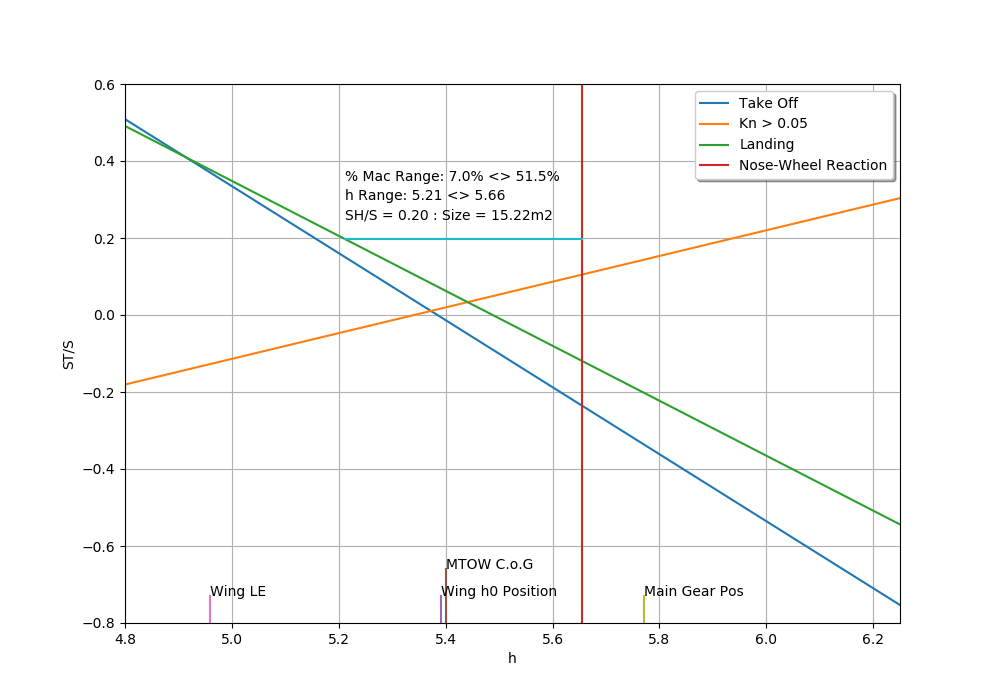
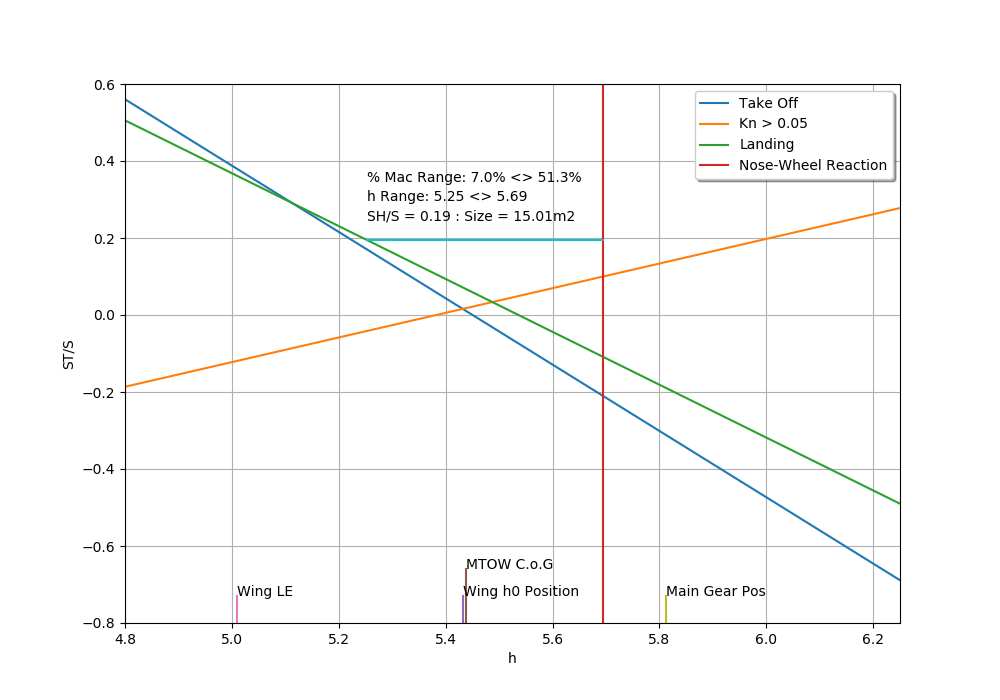
Change Excel references and draw new plot

diff --git a/scissorplot.py b/scissorplot.py
@@ -52,9 +52,9 @@ def myfloor(x, base):
 
 
 # Key Aircraft Params
-c_bar = cad_file['Interface']['B53'].value
+c_bar = cad_file['Interface']['B66'].value
 maxthrust = cad_file['Interface']['F28'].value * 2  # N @ takoff
-vto = 58.3  # m/s
+vto = 59.9  # m/s
 cthrust = maxthrust / qS(vto)
 cm0 = cad_file['Interface']['F29'].value
 cl_to = cad_file['Interface']['F30'].value
@@ -63,11 +63,11 @@ cm0_ld = cad_file['Interface']['F33'].value
 clt = -0.8  # Tail CL
 mtow = cad_file['Interface']['F31'].value  # kg
 g = 9.81  # m/s/s
-h0 = cad_file['Interface']['B54'].value
+h0 = cad_file['Interface']['B67'].value
 print("h0 = " + str(h0))
 mtow_pos_m = cad_file['Interface']['F16'].value
 mtow_pos = mtow_pos_m/c_bar  # From Mass CG File
-lvtp_cad_value = cad_file['Interface']["B76"].value
+lvtp_cad_value = cad_file['Interface']["B89"].value
 engine_vcg_dist = cad_file['Interface']['F15'].value
 # params['MainGearPos'] = 15.93
 a1 = 4.5  # From Horace
@@ -297,4 +297,4 @@ def plotit(r1, r2, search_mac):
     plt.show()
 
 
-plotit(4.8, 6.25, [0.07, 0.41])
+plotit(4.8, 6.25, [0.07, 0.45])
